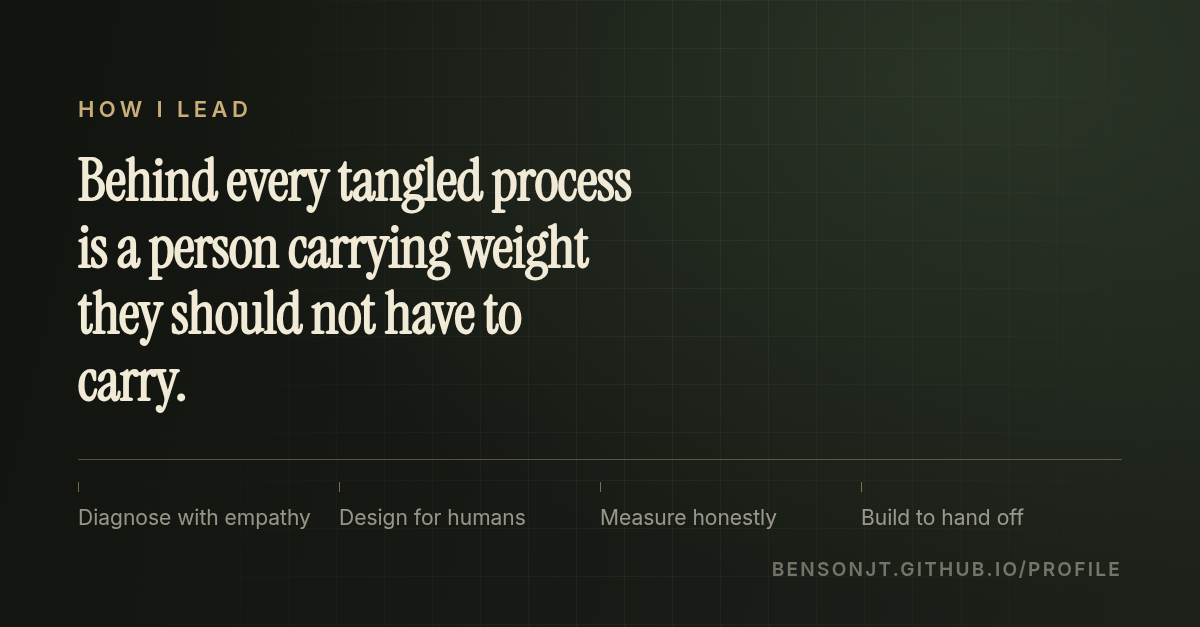
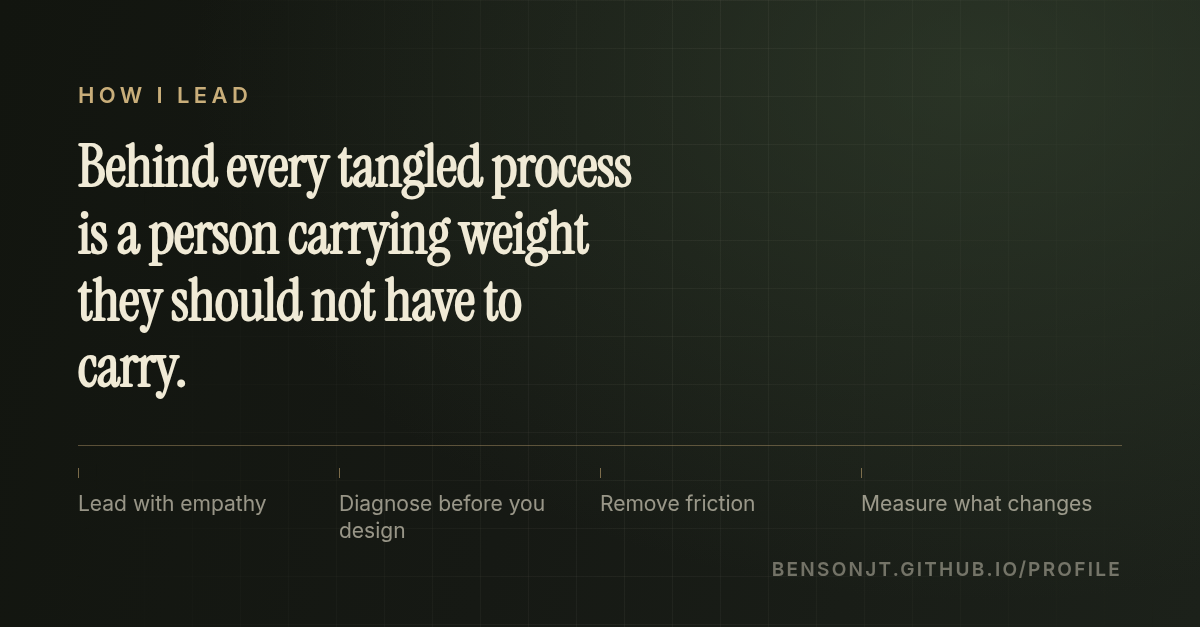
li-card audit: correct ITAM dates, harmonize the work and about cards
ITAM eyebrow 2012-2014 -> 2013-2018 (canon). Work card gets the new
"Pulled into eight domains" headline and real timeline years. About
card's strip now lists four of the actual six principles. Resume card
hyphenates thirty-one. Nine other cards verified clean against canon.

Claude-Session: https://claude.ai/code/session_01MWW3aZq5JYBu68SazpbERt

diff --git a/tools/li-card.html b/tools/li-card.html
@@ -170,7 +170,7 @@
         <script>
             const CARDS = {
                 itam: {
-                    eyebrow: "IT Asset Management &middot; 2012&ndash;2014",
+                    eyebrow: "IT Asset Management &middot; 2013&ndash;2018",
                     headline: "Every handoff is a seam. I counted them.",
                     stats: [
                         ["400+", "activities mapped end to end"],
@@ -181,7 +181,7 @@
                 },
                 resume: {
                     eyebrow: "R&eacute;sum&eacute;",
-                    headline: "Thirty one years, eight domains, one method.",
+                    headline: "Thirty-one years, eight domains, one method.",
                     stats: [
                         ["$40M", "five-year case, measured at $61M realized"],
                         ["50% &rarr; 1%", "annual attrition in a 24x7 operations group"],
@@ -191,11 +191,11 @@
                 },
                 work: {
                     eyebrow: "The record",
-                    headline: "Eight domains. Every one unfamiliar on day one.",
+                    headline: "Pulled into eight domains. Every one unfamiliar on day one.",
                     strip: [
-                        "1990s Release",
-                        "1990s Quality",
-                        "2000&ndash;2011 Capital &amp; expense",
+                        "1997&ndash;1998 Release",
+                        "1999&ndash;2000 Quality",
+                        "2001&ndash;2011 Capital &amp; expense",
                         "2013&ndash;2018 ITAM",
                         "2017&ndash;2018 Security",
                         "2019&ndash;2020 Fiber",
@@ -206,7 +206,12 @@
                 about: {
                     eyebrow: "How I lead",
                     headline: "Behind every tangled process is a person carrying weight they should not have to carry.",
-                    strip: ["Diagnose with empathy", "Design for humans", "Measure honestly", "Build to hand off"],
+                    strip: [
+                        "Lead with empathy",
+                        "Diagnose before you design",
+                        "Remove friction",
+                        "Measure what changes",
+                    ],
                 },
                 systems: {
                     eyebrow: "What I build",
